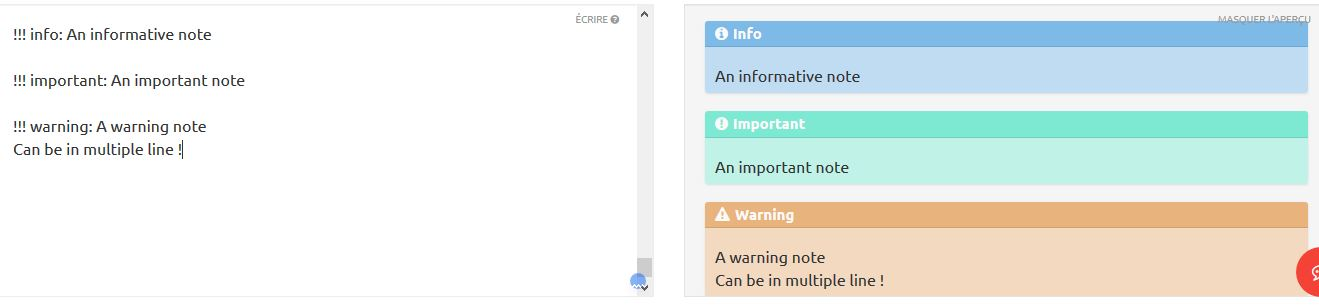
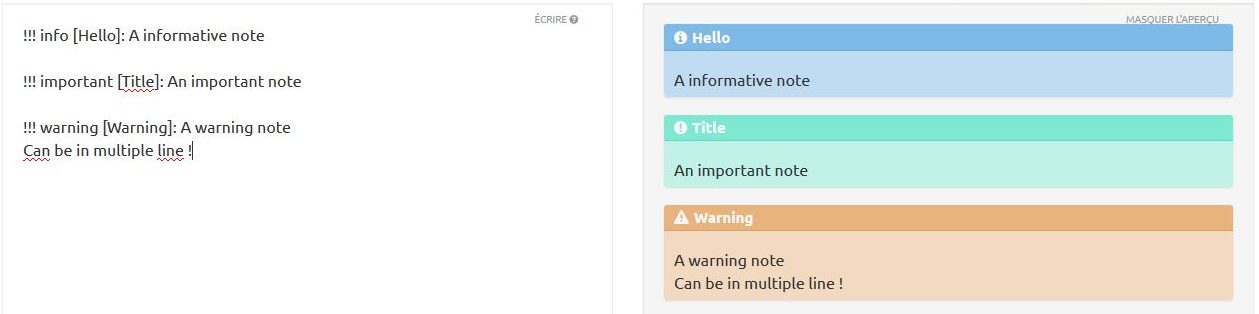
Update doc and new release

diff --git a/README.md b/README.md
@@ -32,7 +32,7 @@ Tooltip allow you to add an overtext on another text. The syntax is `°text°(to
 ![Tooltip](demo/tooltip.png?raw=true)
 
 ### Anchor
-All heading (h1, h2, etc., `#` in markdown) will automatically have an anchor of the same name except that the spaces will be replaced by dashes and all non alphanumeric chars will be remove.
+All heading (h1, h2, etc., `#` in markdown) will automatically have an anchor of named using a slug (specials chars like `:`, `,` are removed, space are remplaced by a `-`).
 You can then create a link to this anchor with the usual markdown syntax: `[link name](#anchor-name)`
 
 ### Text heading with background
@@ -70,11 +70,11 @@ You can add more than two languages.
 
 Enable to emphasise some element with a nice design 
 ```
-!!! note: A simple note
+!!! info [Title]: A simple note
 
-!!! important: An important note
+!!! important [Title]: An important note
 
-!!! warning: A warning note
+!!! warning [Title]: A warning note
 Can be in multiple line !
 ```
 
